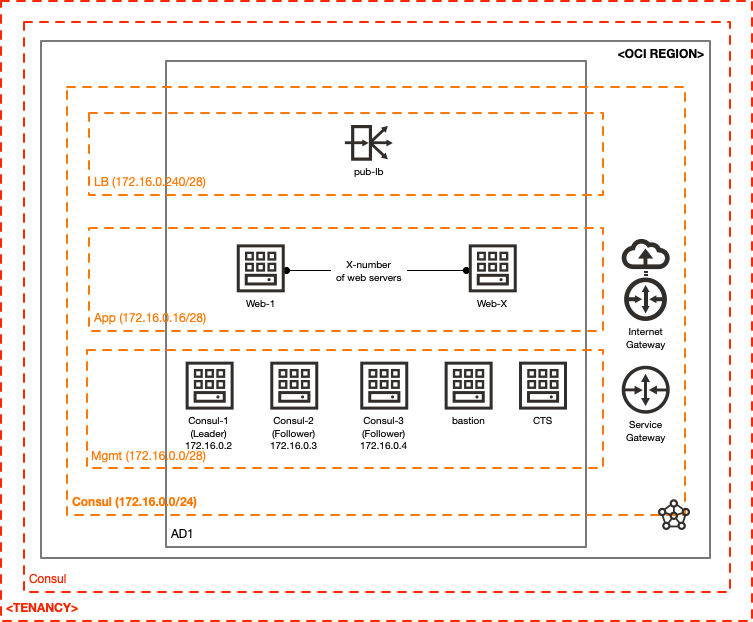
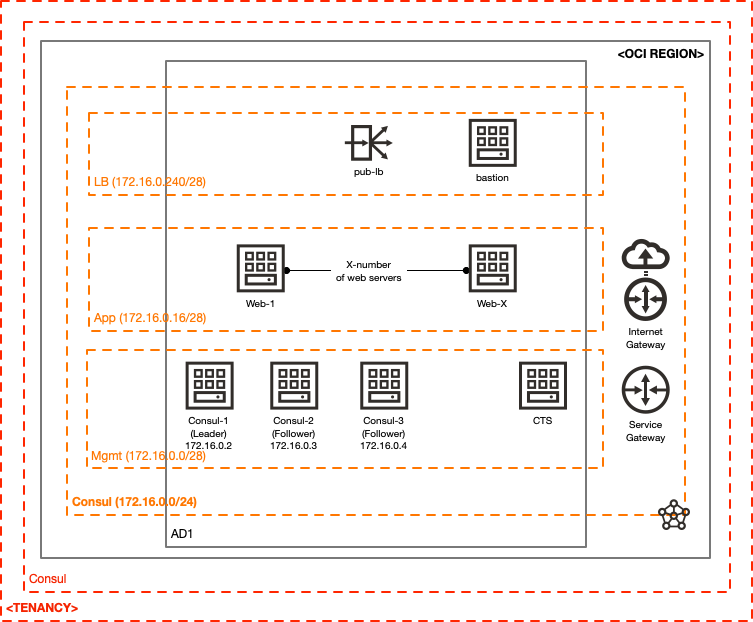
fix: Updates to the stack

Changed region(s): [[0.6109, 0.1833, 0.7025, 0.3055], [0.5803, 0.5804, 0.672, 0.7026]]

diff --git a/terraform_cts/README.md b/terraform_cts/README.md
@@ -14,6 +14,7 @@ Here's a quick summary of what's deployed:
 * A bastion (it's not a proper, hardened bastion - it's really just an instance that can be SSH'd to)
 * 1+ web servers (added to the LB Backend Set)
 * A public LB, which is accessible by a public IP address (it's highly recommended to limit it to your own public IP address, as the LB does not use any encryption)
+* A server running CTS (and Consul in client mode)
 
 ## Getting Started
 ### Sensitive Values to Record
@@ -33,6 +34,53 @@ You may visit the LB by going to the public IP in your web browser.  Note that t
 
 ### Prerequisites
 You must have an OCI account.  [Click here](https://www.oracle.com/cloud/free/?source=:ow:o:s:nav::DevoGetStarted&intcmp=:ow:o:s:nav::DevoGetStarted) to create a new cloud account.
+
+## CTS Specifics
+The `cts` instance will automatically add/remove web servers to the OCI LB, as web servers are added or removed.  To see this in action, change the number of `num_web_svrs` variable (increase it, apply, then look at the LB backend... decrease it, apply, then look at the LB backend).
+
+The CTS web task is configured in the `scripts/cts_install.sh` script (placed in `/etc/consul-cts.d/cts.hcl` on the CTS instance):
+
+```
+task {
+  name        = "web"
+  description = "CTS on OCI example"
+  source      = "oracle-devrel/cts-example/oci"
+  version     = "0.1.1"
+  services    = ["web"]
+  variable_files = [
+    "/etc/consul-cts.d/web.tfvars"
+  ]
+}
+```
+
+The `/etc/consul-cts.d/web.tfvars` file contains several inputs that are needed by the `cts-example` module:
+
+```
+region = "${region}"
+lb_id = "${lb_id}"
+be_set_name = "${be_set_name}"
+```
+
+These are passed into the `file` provisioner (found in the `cts_rgn1` `oci_core_instance` resource definition, in `compute.tf`) so they're accessible within the file provisioner:
+
+```
+  ...
+  provisioner "file" {
+    content     = templatefile("${path.module}/scripts/cts_install.sh", {
+      region = var.region_1
+      lb_id = oci_load_balancer_load_balancer.pub_rgn1.id
+      be_set_name = oci_load_balancer_backend_set.web_rgn1.name
+      consul_nodes = local.region1_consul_ips
+    })
+    destination = "/tmp/install_cts.sh"
+    ...
+```
+
+This way we values can be passed about the infrastructure that the CTS module will need to successfully add/remove Backends to the LB Backend Set.
+
+Instance Principals are used to grant the CTS instance privileges to manage the LB.
+
+CTS is configured to use Consul for the TF State (see the `driver "terraform"` block in `/etc/consul-cts.d/cts.hcl` on the `cts` instance).
 
 ## Requirements
 
@@ -71,6 +119,7 @@ No modules.
 | [oci_core_network_security_group.consul_rgn1](https://registry.terraform.io/providers/hashicorp/oci/latest/docs/resources/core_network_security_group) | resource |
 | [oci_core_network_security_group.lb_rgn1](https://registry.terraform.io/providers/hashicorp/oci/latest/docs/resources/core_network_security_group) | resource |
 | [oci_core_network_security_group.web_rgn1](https://registry.terraform.io/providers/hashicorp/oci/latest/docs/resources/core_network_security_group) | resource |
+| [oci_core_network_security_group_security_rule.consul_to_tcp_443](https://registry.terraform.io/providers/hashicorp/oci/latest/docs/resources/core_network_security_group_security_rule) | resource |
 | [oci_core_network_security_group_security_rule.e_to_consul_8500](https://registry.terraform.io/providers/hashicorp/oci/latest/docs/resources/core_network_security_group_security_rule) | resource |
 | [oci_core_network_security_group_security_rule.e_to_consul_rgn1](https://registry.terraform.io/providers/hashicorp/oci/latest/docs/resources/core_network_security_group_security_rule) | resource |
 | [oci_core_network_security_group_security_rule.e_to_consul_ssh](https://registry.terraform.io/providers/hashicorp/oci/latest/docs/resources/core_network_security_group_security_rule) | resource |
@@ -87,9 +136,10 @@ No modules.
 | [oci_core_subnet.mgmt_rgn1](https://registry.terraform.io/providers/hashicorp/oci/latest/docs/resources/core_subnet) | resource |
 | [oci_core_vcn.rgn1](https://registry.terraform.io/providers/hashicorp/oci/latest/docs/resources/core_vcn) | resource |
 | [oci_identity_compartment.consul](https://registry.terraform.io/providers/hashicorp/oci/latest/docs/resources/identity_compartment) | resource |
+| [oci_identity_dynamic_group.cts](https://registry.terraform.io/providers/hashicorp/oci/latest/docs/resources/identity_dynamic_group) | resource |
+| [oci_identity_policy.cts](https://registry.terraform.io/providers/hashicorp/oci/latest/docs/resources/identity_policy) | resource |
 | [oci_identity_tag.release](https://registry.terraform.io/providers/hashicorp/oci/latest/docs/resources/identity_tag) | resource |
 | [oci_identity_tag_namespace.devrel](https://registry.terraform.io/providers/hashicorp/oci/latest/docs/resources/identity_tag_namespace) | resource |
-| [oci_load_balancer_backend.rgn1](https://registry.terraform.io/providers/hashicorp/oci/latest/docs/resources/load_balancer_backend) | resource |
 | [oci_load_balancer_backend_set.web_rgn1](https://registry.terraform.io/providers/hashicorp/oci/latest/docs/resources/load_balancer_backend_set) | resource |
 | [oci_load_balancer_listener.web_rgn1](https://registry.terraform.io/providers/hashicorp/oci/latest/docs/resources/load_balancer_listener) | resource |
 | [oci_load_balancer_load_balancer.pub_rgn1](https://registry.terraform.io/providers/hashicorp/oci/latest/docs/resources/load_balancer_load_balancer) | resource |
@@ -130,6 +180,7 @@ No modules.
 |------|-------------|
 | <a name="output_bastion_pub_ip"></a> [bastion\_pub\_ip](#output\_bastion\_pub\_ip) | n/a |
 | <a name="output_be_set_name"></a> [be\_set\_name](#output\_be\_set\_name) | n/a |
+| <a name="output_cts_priv_ip"></a> [cts\_priv\_ip](#output\_cts\_priv\_ip) | n/a |
 | <a name="output_lb_id"></a> [lb\_id](#output\_lb\_id) | n/a |
 | <a name="output_rgn1_lb_pub_ip"></a> [rgn1\_lb\_pub\_ip](#output\_rgn1\_lb\_pub\_ip) | n/a |
 
@@ -140,6 +191,9 @@ None at this time.
 ### Consul Installation
 * https://devopscube.com/setup-consul-cluster-guide/
 * https://learn.hashicorp.com/tutorials/consul/deployment-guide
+### CTS
+* https://www.consul.io/docs/nia/configuration
+* https://learn.hashicorp.com/tutorials/consul/consul-terraform-sync-secure?in=consul/network-infrastructure-automation#consul-kv-privileges-when-used-as-the-terraform-backend
 
 ## Contributing
 This project is open source.  Please submit your contributions by forking this repository and submitting a pull request!  Oracle appreciates any contributions that are made by the open source community.

diff --git a/terraform_single_region/README.md b/terraform_single_region/README.md
@@ -58,8 +58,6 @@ No modules.
 
 | Name | Type |
 |------|------|
-| [oci_bastion_bastion.rgn1](https://registry.terraform.io/providers/hashicorp/oci/latest/docs/resources/bastion_bastion) | resource |
-| [oci_bastion_session.consul_1_rgn1](https://registry.terraform.io/providers/hashicorp/oci/latest/docs/resources/bastion_session) | resource |
 | [oci_core_dhcp_options.rgn1](https://registry.terraform.io/providers/hashicorp/oci/latest/docs/resources/core_dhcp_options) | resource |
 | [oci_core_instance.bastion_rgn1](https://registry.terraform.io/providers/hashicorp/oci/latest/docs/resources/core_instance) | resource |
 | [oci_core_instance.consul_1_rgn1](https://registry.terraform.io/providers/hashicorp/oci/latest/docs/resources/core_instance) | resource |
